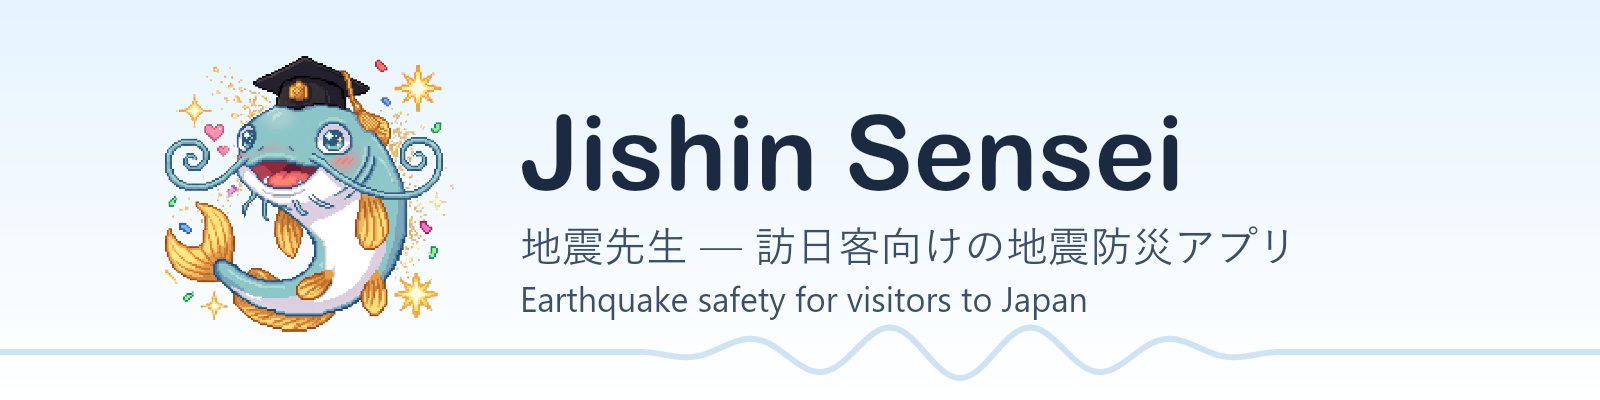
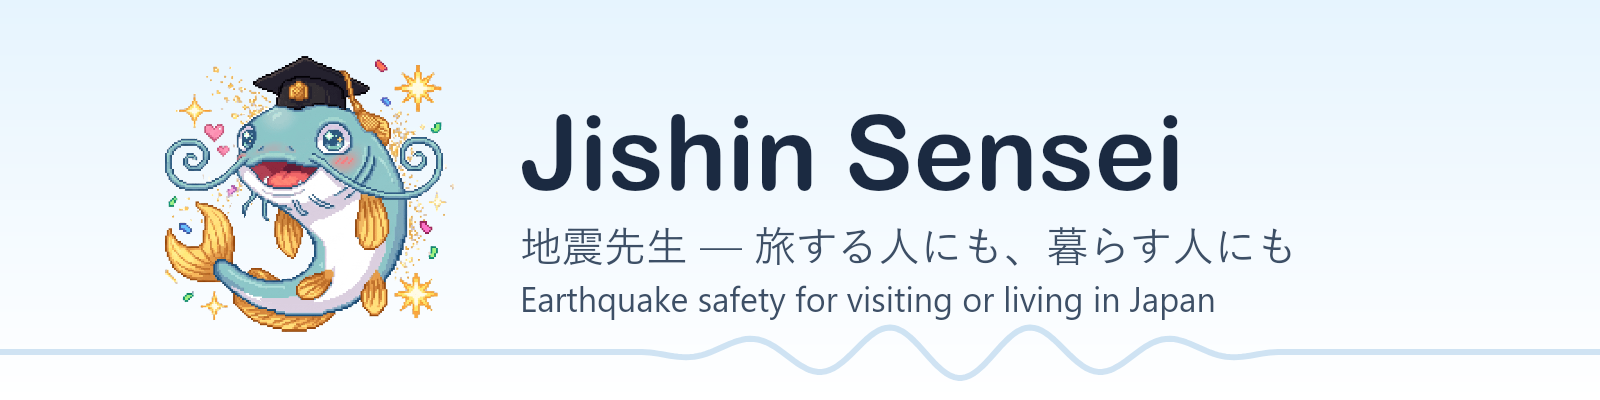
Jishin Sensei: say the app is for people living in Japan too
The banner, the link-preview image and their alt texts, the contact page
tagline and the terms' descriptions said "for visitors to Japan" /
訪日客向け. The App Store copy has said "for people visiting Japan, and
people living here" since 1.0.6 (September 4), and 1.0.11 adds "I live in Japan" to
the cards. New line: 旅する人にも、暮らす人にも / Earthquake safety for
visiting or living in Japan (same width as the old line in both images).
Guides: only og:image:alt changes; their bodies and dates stay as they
are. Push after 1.0.11 is out.

Changed region(s): [[0.4688, 0.57, 0.8125, 0.66], [0.5625, 0.72, 0.7812, 0.78]]

diff --git a/jishin-sensei/contact.html b/jishin-sensei/contact.html
@@ -14,7 +14,7 @@
 <meta property="og:image" content="https://sukunabicco.github.io/jishin-sensei/press/img/og-1200x630.png">
 <meta property="og:image:width" content="1200">
 <meta property="og:image:height" content="630">
-<meta property="og:image:alt" content="Jishin Sensei — earthquake safety for visitors to Japan">
+<meta property="og:image:alt" content="Jishin Sensei — earthquake safety for visiting or living in Japan">
 <meta name="twitter:card" content="summary_large_image">
 <style>
   :root {
@@ -41,9 +41,9 @@
 </head>
 <body>
 <main>
-  <img class="site-banner" src="/jishin-sensei/press/img/header-1600x400.png" alt="Jishin Sensei（地震先生）— earthquake safety for visitors to Japan" width="1600" height="400">
+  <img class="site-banner" src="/jishin-sensei/press/img/header-1600x400.png" alt="Jishin Sensei（地震先生）— earthquake safety for visiting or living in Japan" width="1600" height="400">
   <h1>お問い合わせ / Contact</h1>
-  <p class="muted">Jishin Sensei（地震先生）— 訪日客向けの地震防災アプリ / Earthquake safety for visitors to Japan</p>
+  <p class="muted">Jishin Sensei（地震先生）— 旅する人にも、暮らす人にも / Earthquake safety for visiting or living in Japan</p>
 
   <h2>日本語</h2>
   <p>アプリについてのお問い合わせは、下のフォームからお送りください。フロントや客室に置ける QR ポスター（A4・英語／日本語／韓国語／中国語 簡体字・繁体字）の印刷用データは、<a href="/jishin-sensei/press/#poster-hotel">プレスキットのページ</a>から無料でダウンロードできます。<a href="https://www.youtube.com/watch?v=5Kgk0y9pDkE">宿泊施設の方向けの紹介動画（5:35）</a>もご覧いただけます。電話番号の入力は不要です。</p>

diff --git a/jishin-sensei/terms-ja.html b/jishin-sensei/terms-ja.html
@@ -5,18 +5,18 @@
 <meta name="viewport" content="width=device-width, initial-scale=1">
 <meta name="apple-itunes-app" content="app-id=6799572857">
 <title>Jishin Sensei — 利用規約</title>
-<meta name="description" content="訪日客のための無料の地震防災アプリ Jishin Sensei の利用規約（日本語版）。">
+<meta name="description" content="日本を旅する人にも暮らす人にも向けた、無料の地震防災アプリ Jishin Sensei の利用規約（日本語版）。">
 <link rel="alternate" hreflang="en" href="https://sukunabicco.github.io/jishin-sensei/terms.html">
 <link rel="alternate" hreflang="ja" href="https://sukunabicco.github.io/jishin-sensei/terms-ja.html">
 <meta property="og:type" content="website">
 <meta property="og:site_name" content="Jishin Sensei">
 <meta property="og:title" content="Jishin Sensei — 利用規約">
-<meta property="og:description" content="訪日客のための無料の地震防災アプリ Jishin Sensei の利用規約（日本語版）。">
+<meta property="og:description" content="日本を旅する人にも暮らす人にも向けた、無料の地震防災アプリ Jishin Sensei の利用規約（日本語版）。">
 <meta property="og:url" content="https://sukunabicco.github.io/jishin-sensei/terms-ja.html">
 <meta property="og:image" content="https://sukunabicco.github.io/jishin-sensei/press/img/og-1200x630.png">
 <meta property="og:image:width" content="1200">
 <meta property="og:image:height" content="630">
-<meta property="og:image:alt" content="Jishin Sensei — earthquake safety for visitors to Japan">
+<meta property="og:image:alt" content="Jishin Sensei — earthquake safety for visiting or living in Japan">
 <meta name="twitter:card" content="summary_large_image">
 <style>
   :root {

diff --git a/jishin-sensei/terms.html b/jishin-sensei/terms.html
@@ -5,18 +5,18 @@
 <meta name="viewport" content="width=device-width, initial-scale=1">
 <meta name="apple-itunes-app" content="app-id=6799572857">
 <title>Jishin Sensei — Terms of Use</title>
-<meta name="description" content="Terms of use for Jishin Sensei, a free earthquake-safety app for visitors to Japan.">
+<meta name="description" content="Terms of use for Jishin Sensei, a free earthquake-safety app for people visiting or living in Japan.">
 <link rel="alternate" hreflang="en" href="https://sukunabicco.github.io/jishin-sensei/terms.html">
 <link rel="alternate" hreflang="ja" href="https://sukunabicco.github.io/jishin-sensei/terms-ja.html">
 <meta property="og:type" content="website">
 <meta property="og:site_name" content="Jishin Sensei">
 <meta property="og:title" content="Jishin Sensei — Terms of Use">
-<meta property="og:description" content="Terms of use for Jishin Sensei, a free earthquake-safety app for visitors to Japan.">
+<meta property="og:description" content="Terms of use for Jishin Sensei, a free earthquake-safety app for people visiting or living in Japan.">
 <meta property="og:url" content="https://sukunabicco.github.io/jishin-sensei/terms.html">
 <meta property="og:image" content="https://sukunabicco.github.io/jishin-sensei/press/img/og-1200x630.png">
 <meta property="og:image:width" content="1200">
 <meta property="og:image:height" content="630">
-<meta property="og:image:alt" content="Jishin Sensei — earthquake safety for visitors to Japan">
+<meta property="og:image:alt" content="Jishin Sensei — earthquake safety for visiting or living in Japan">
 <meta name="twitter:card" content="summary_large_image">
 <style>
   :root {

diff --git a/jishin-sensei/index.html b/jishin-sensei/index.html
@@ -14,7 +14,7 @@
 <meta property="og:image" content="https://sukunabicco.github.io/jishin-sensei/press/img/og-1200x630.png">
 <meta property="og:image:width" content="1200">
 <meta property="og:image:height" content="630">
-<meta property="og:image:alt" content="Jishin Sensei — earthquake safety for visitors to Japan">
+<meta property="og:image:alt" content="Jishin Sensei — earthquake safety for visiting or living in Japan">
 <meta name="twitter:card" content="summary_large_image">
 <style>
   :root {
@@ -41,7 +41,7 @@
 </head>
 <body>
 <main>
-  <img class="site-banner" src="/jishin-sensei/press/img/header-1600x400.png" alt="Jishin Sensei（地震先生）— earthquake safety for visitors to Japan" width="1600" height="400">
+  <img class="site-banner" src="/jishin-sensei/press/img/header-1600x400.png" alt="Jishin Sensei（地震先生）— earthquake safety for visiting or living in Japan" width="1600" height="400">
   <h1>🐟 Jishin Sensei</h1>
   <p class="muted">Japan Earthquake Safety Quiz — Support</p>
   <p><a href="/jishin-sensei/guide/">→ Guides: what to do in an earthquake in Japan, for visitors (5 languages)</a> · <a href="https://www.youtube.com/watch?v=bpIZwkDnmv8">Video tour (5:30)</a> · <a href="/jishin-sensei/press/">Press kit</a> · <a href="/jishin-sensei/contact.html">Contact</a></p>

diff --git a/jishin-sensei/press/index.html b/jishin-sensei/press/index.html
@@ -14,7 +14,7 @@
 <meta property="og:image" content="https://sukunabicco.github.io/jishin-sensei/press/img/og-1200x630.png">
 <meta property="og:image:width" content="1200">
 <meta property="og:image:height" content="630">
-<meta property="og:image:alt" content="Jishin Sensei — earthquake safety for visitors to Japan">
+<meta property="og:image:alt" content="Jishin Sensei — earthquake safety for visiting or living in Japan">
 <meta name="twitter:card" content="summary_large_image">
 <style>
   :root {
@@ -63,7 +63,7 @@
 </head>
 <body>
 <main>
-  <img class="site-banner" src="/jishin-sensei/press/img/header-1600x400.png" alt="Jishin Sensei（地震先生）— earthquake safety for visitors to Japan" width="1600" height="400">
+  <img class="site-banner" src="/jishin-sensei/press/img/header-1600x400.png" alt="Jishin Sensei（地震先生）— earthquake safety for visiting or living in Japan" width="1600" height="400">
   <div class="hero">
     <img class="icon" src="img/icon.png" alt="Jishin Sensei app icon">
     <div class="lead">

diff --git a/jishin-sensei/guide/ko/tsunami-warning-japan-visitors.html b/jishin-sensei/guide/ko/tsunami-warning-japan-visitors.html
@@ -20,7 +20,7 @@
 <meta property="og:image" content="https://sukunabicco.github.io/jishin-sensei/press/img/og-1200x630.png">
 <meta property="og:image:width" content="1200">
 <meta property="og:image:height" content="630">
-<meta property="og:image:alt" content="Jishin Sensei — earthquake safety for visitors to Japan">
+<meta property="og:image:alt" content="Jishin Sensei — earthquake safety for visiting or living in Japan">
 <meta name="twitter:card" content="summary_large_image">
 <script type="application/ld+json">{"@context":"https://schema.org","@type":"Article","headline":"일본에서 쓰나미 경보가 나오면: 언제 움직이고, 언제 돌아갈 수 있는가","inLanguage":"ko","dateModified":"2026-09-26","author":{"@type":"Person","name":"Makoto Katano"},"mainEntityOfPage":"https://sukunabicco.github.io/jishin-sensei/guide/ko/tsunami-warning-japan-visitors.html"}</script>
 <style>

diff --git a/jishin-sensei/guide/ko/data-only-sim-cannot-call-119.html b/jishin-sensei/guide/ko/data-only-sim-cannot-call-119.html
@@ -20,7 +20,7 @@
 <meta property="og:image" content="https://sukunabicco.github.io/jishin-sensei/press/img/og-1200x630.png">
 <meta property="og:image:width" content="1200">
 <meta property="og:image:height" content="630">
-<meta property="og:image:alt" content="Jishin Sensei — earthquake safety for visitors to Japan">
+<meta property="og:image:alt" content="Jishin Sensei — earthquake safety for visiting or living in Japan">
 <meta name="twitter:card" content="summary_large_image">
 <script type="application/ld+json">{"@context":"https://schema.org","@type":"Article","headline":"여행용 SIM으로는 119에 전화할 수 없다: 일본에서 도움을 부르는 방법","inLanguage":"ko","dateModified":"2026-09-26","author":{"@type":"Person","name":"Makoto Katano"},"mainEntityOfPage":"https://sukunabicco.github.io/jishin-sensei/guide/ko/data-only-sim-cannot-call-119.html"}</script>
 <style>

diff --git a/jishin-sensei/guide/zh-Hans/tsunami-warning-japan-visitors.html b/jishin-sensei/guide/zh-Hans/tsunami-warning-japan-visitors.html
@@ -20,7 +20,7 @@
 <meta property="og:image" content="https://sukunabicco.github.io/jishin-sensei/press/img/og-1200x630.png">
 <meta property="og:image:width" content="1200">
 <meta property="og:image:height" content="630">
-<meta property="og:image:alt" content="Jishin Sensei — earthquake safety for visitors to Japan">
+<meta property="og:image:alt" content="Jishin Sensei — earthquake safety for visiting or living in Japan">
 <meta name="twitter:card" content="summary_large_image">
 <script type="application/ld+json">{"@context":"https://schema.org","@type":"Article","headline":"在日本收到海啸警报：什么时候走，什么时候能回去","inLanguage":"zh-Hans","dateModified":"2026-09-26","author":{"@type":"Person","name":"Makoto Katano"},"mainEntityOfPage":"https://sukunabicco.github.io/jishin-sensei/guide/zh-Hans/tsunami-warning-japan-visitors.html"}</script>
 <style>

diff --git a/jishin-sensei/guide/zh-Hant/tsunami-warning-japan-visitors.html b/jishin-sensei/guide/zh-Hant/tsunami-warning-japan-visitors.html
@@ -20,7 +20,7 @@
 <meta property="og:image" content="https://sukunabicco.github.io/jishin-sensei/press/img/og-1200x630.png">
 <meta property="og:image:width" content="1200">
 <meta property="og:image:height" content="630">
-<meta property="og:image:alt" content="Jishin Sensei — earthquake safety for visitors to Japan">
+<meta property="og:image:alt" content="Jishin Sensei — earthquake safety for visiting or living in Japan">
 <meta name="twitter:card" content="summary_large_image">
 <script type="application/ld+json">{"@context":"https://schema.org","@type":"Article","headline":"在日本收到海嘯警報：什麼時候走，什麼時候能回去","inLanguage":"zh-Hant","dateModified":"2026-09-26","author":{"@type":"Person","name":"Makoto Katano"},"mainEntityOfPage":"https://sukunabicco.github.io/jishin-sensei/guide/zh-Hant/tsunami-warning-japan-visitors.html"}</script>
 <style>

diff --git a/jishin-sensei/guide/ja/data-only-sim-cannot-call-119.html b/jishin-sensei/guide/ja/data-only-sim-cannot-call-119.html
@@ -20,7 +20,7 @@
 <meta property="og:image" content="https://sukunabicco.github.io/jishin-sensei/press/img/og-1200x630.png">
 <meta property="og:image:width" content="1200">
 <meta property="og:image:height" content="630">
-<meta property="og:image:alt" content="Jishin Sensei — earthquake safety for visitors to Japan">
+<meta property="og:image:alt" content="Jishin Sensei — earthquake safety for visiting or living in Japan">
 <meta name="twitter:card" content="summary_large_image">
 <script type="application/ld+json">{"@context":"https://schema.org","@type":"Article","headline":"旅行用 SIM では 119 にかけられない：日本で助けを呼ぶ方法","inLanguage":"ja","dateModified":"2026-09-26","author":{"@type":"Person","name":"Makoto Katano"},"mainEntityOfPage":"https://sukunabicco.github.io/jishin-sensei/guide/ja/data-only-sim-cannot-call-119.html"}</script>
 <style>

diff --git a/jishin-sensei/guide/en/evacuation-signs-japan.html b/jishin-sensei/guide/en/evacuation-signs-japan.html
@@ -20,7 +20,7 @@
 <meta property="og:image" content="https://sukunabicco.github.io/jishin-sensei/press/img/og-1200x630.png">
 <meta property="og:image:width" content="1200">
 <meta property="og:image:height" content="630">
-<meta property="og:image:alt" content="Jishin Sensei — earthquake safety for visitors to Japan">
+<meta property="og:image:alt" content="Jishin Sensei — earthquake safety for visiting or living in Japan">
 <meta name="twitter:card" content="summary_large_image">
 <script type="application/ld+json">{"@context":"https://schema.org","@type":"Article","headline":"How to read Japan's evacuation signs: the ○/× marks and the green pictograms","inLanguage":"en","dateModified":"2026-09-26","author":{"@type":"Person","name":"Makoto Katano"},"mainEntityOfPage":"https://sukunabicco.github.io/jishin-sensei/guide/en/evacuation-signs-japan.html"}</script>
 <style>

diff --git a/jishin-sensei/guide/ja/earthquake-first-10-minutes.html b/jishin-sensei/guide/ja/earthquake-first-10-minutes.html
@@ -20,7 +20,7 @@
 <meta property="og:image" content="https://sukunabicco.github.io/jishin-sensei/press/img/og-1200x630.png">
 <meta property="og:image:width" content="1200">
 <meta property="og:image:height" content="630">
-<meta property="og:image:alt" content="Jishin Sensei — earthquake safety for visitors to Japan">
+<meta property="og:image:alt" content="Jishin Sensei — earthquake safety for visiting or living in Japan">
 <meta name="twitter:card" content="summary_large_image">
 <script type="application/ld+json">{"@context":"https://schema.org","@type":"Article","headline":"日本で地震にあったら、旅行者はどうする：最初の10分","inLanguage":"ja","dateModified":"2026-09-26","author":{"@type":"Person","name":"Makoto Katano"},"mainEntityOfPage":"https://sukunabicco.github.io/jishin-sensei/guide/ja/earthquake-first-10-minutes.html"}</script>
 <style>
